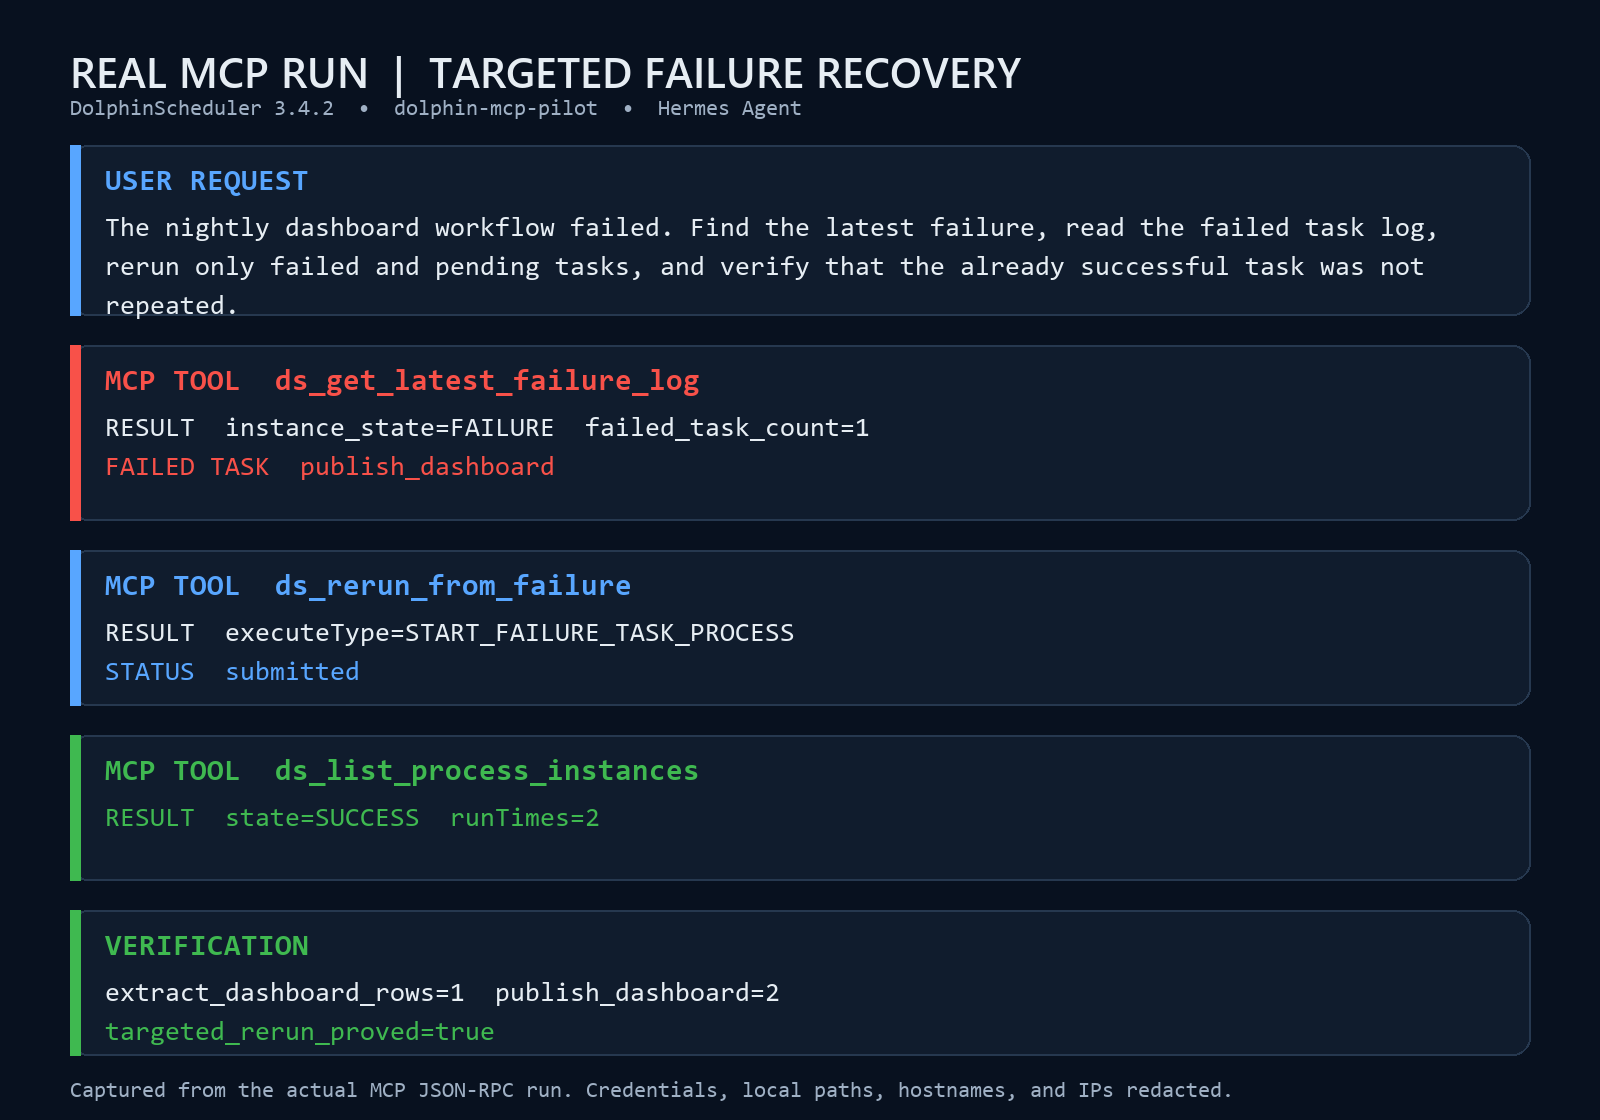
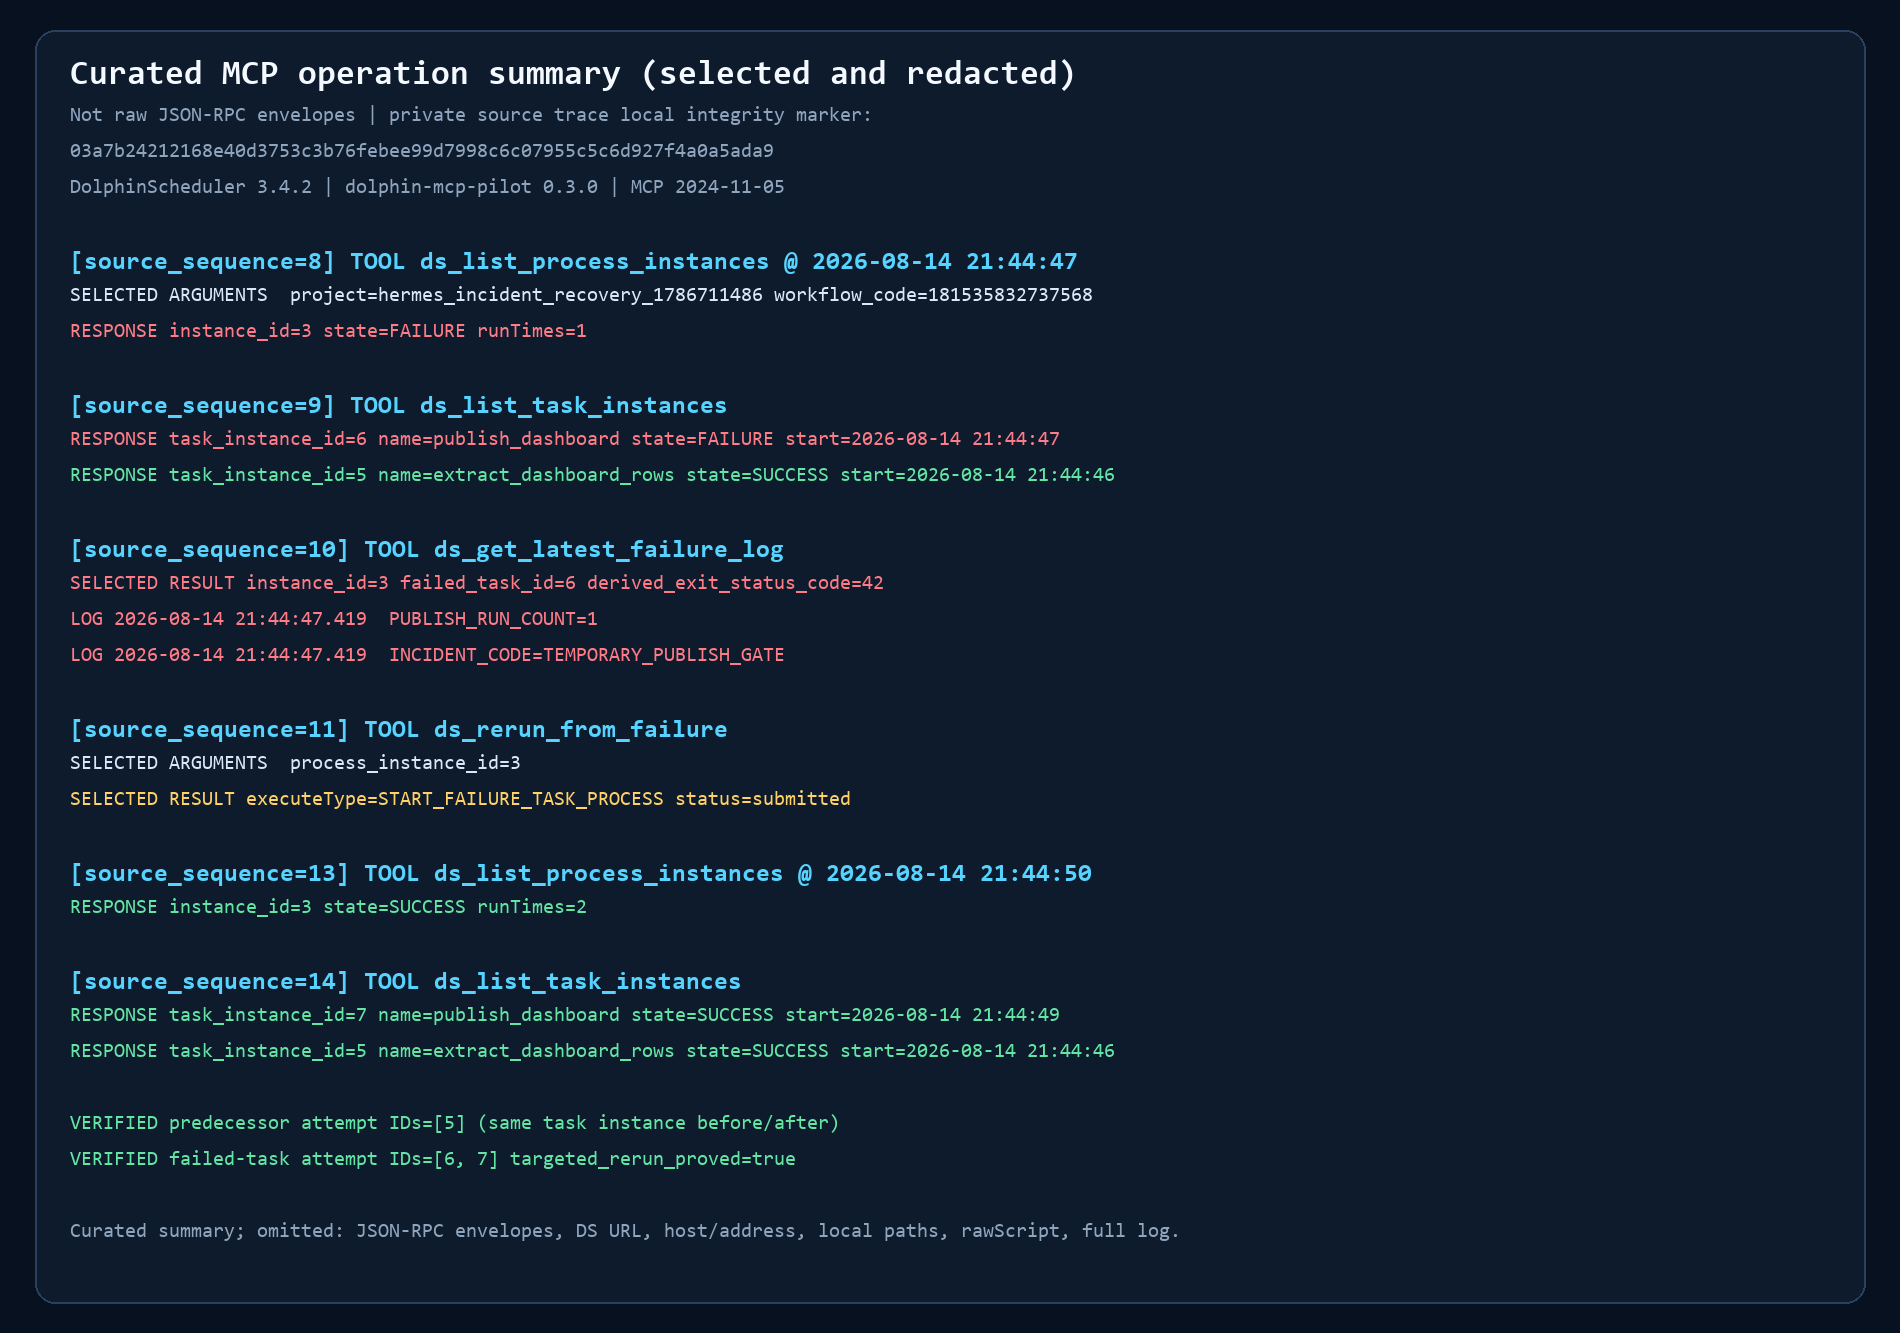
docs: publish targeted failure recovery case

Changed region(s): [[0.0312, 0.0312, 0.9062, 0.9375], [0.0312, 0.9688, 0.7812, 1.0]]

diff --git a/README.md b/README.md
@@ -3,7 +3,7 @@
 **真实环境：DolphinScheduler 3.4.2 + dolphin-mcp-pilot + Hermes Agent**  
 **运行日期：2026-08-14**
 
-> 本文记录一次真实 MCP JSON-RPC 运维实验：代理定位唯一失败任务，读取日志，从失败节点重跑，并用双重计数证明成功的上游任务没有重复执行。凭据、本地路径、主机名和内网 IP 均已脱敏。
+> 本文记录一次真实 MCP 工具运维实验：代理定位唯一失败任务，读取日志，从失败节点重跑，并用 DolphinScheduler 任务实例 ID 证明成功的上游任务没有重复执行。公开附件是经过筛选和脱敏的 MCP 操作摘要，不是原始 JSON-RPC 请求/响应封装；凭据、本地路径、主机名和内网 IP 均未公开。
 
 ![真实 MCP 运行记录](assets/targeted-recovery-transcript.png)
 
@@ -58,19 +58,21 @@ publish_dashboard=2
 targeted_rerun_proved=true
 ```
 
+经过筛选和脱敏的工具参数、结果、源顺序、DolphinScheduler 时间戳、实例 ID、任务 ID 与派生日志断言见 [`evidence/real-run-summary.json`](evidence/real-run-summary.json)。该文件记录的本地源记录 SHA-256 只是完整性指针；原始文件因包含机器本地路径和地址而不公开，因此外部读者不能独立验证该哈希。
+
 ## 为什么可以证明“只重跑失败节点”
 
-仅看工作流最终变绿并不充分，所以每个任务都写入独立执行计数：
+仅看工作流最终变绿并不充分，所以同时检查失败日志标记和任务实例 ID：
 
 | 任务 | 首次执行 | 恢复后累计 | 解释 |
 |---|---:|---:|---|
 | `extract_dashboard_rows` | 1 | **1** | 已成功任务未重复 |
 | `publish_dashboard` | 1（失败） | **2** | 失败任务单独再执行一次 |
 
-同时，DolphinScheduler 任务实例也显示：
+机器可读证据显示：
 
-- 原上游任务实例保持成功；
-- 发布任务产生新的成功实例；
+- 原上游任务在恢复前后保持相同 task-instance ID；
+- 发布任务拥有不同的失败与成功 task-instance ID；
 - 工作流实例 `runTimes=2`；
 - 最终状态为 `SUCCESS`。
 
@@ -87,7 +89,7 @@ processDefinitionCode     -> workflowDefinitionCode
 processInstanceId         -> workflowInstanceId
 ```
 
-兼容策略是保留旧请求为首选，只在旧地址返回 `404/405`、返回 `400` 且请求字段确实发生 3.4 转换，或响应明确提示缺少 3.4 新字段时，进行一次受限转换重试。普通旧版业务 `400` 不会被重试到新地址。
+兼容策略是保留旧请求为首选。只有目标路径确实改变且旧路径返回 `405` 或精确匹配 Jetty 标准路由缺失页面、并且页面中的 URI 与首次请求 URI 相同的 `404`，或者 HTTP/应用响应的完整错误消息精确报告缺少本次转换产生的 3.4 字段时，才进行一次受限转换重试。空正文、URI 不同、带额外内容或应用错误正文的 `404`、业务 `400`、仅包含缺字段片段或新字段名的业务错误以及 `ds_raw_*` 原样请求均不会触发兼容重试；raw 响应也不会被改写。`SUB_PROCESS` 的嵌套工作流代码只在第二次 3.4 请求中转换。
 
 ### 2. 显式 DAG 的虚拟根边
 
@@ -103,7 +105,7 @@ extract_dashboard_rows -> publish_dashboard
 0 -> extract_dashboard_rows
 ```
 
-结果是起始任务未进入顶点集合，服务端返回误导性的 `workflow node has cycle`。修复后，所有无入边任务会自动添加虚拟根边。
+结果是起始任务未进入顶点集合，服务端返回误导性的 `workflow node has cycle`。修复后，所有无入边任务会自动添加虚拟根边；基础和高级 DAG 创建工具会在任何 DolphinScheduler API 调用前共同拒绝空图、空/重复任务名、未知引用、重复边、自环、循环依赖以及与真实前驱冲突的显式根边。
 
 ## Windows 独立运行补充
 
@@ -121,16 +123,22 @@ Linux 或容器部署不需要这条 Windows 说明。
 新增测试覆盖：
 
 - 3.4 路径和字段转换；
+- schedule 查询和 DAG 响应容器别名；
 - 旧地址 HTTP 失败后的单次重试；
-- JSON 缺少 `workflowInstanceId` 时的受限重试；
+- 实际 DS 3.4 缺少 `workflowInstanceId` 错误后的受限重试；
+- 普通业务错误和 raw 请求不重试；
 - 3.4 响应字段向旧字段添加只读别名；
-- 显式依赖图自动补虚拟根边。
+- 显式依赖图自动补虚拟根边；
+- 多根、孤立任务、fork/join 与非法 DAG 输入；
+- 公开运行证据字段的机器验证。
 
 执行结果：
 
 ```text
-28 unit tests passed, 1 warning
-18 E2E tests passed
+74 non-E2E tests passed
+55 focused compatibility/DAG/evidence tests passed
+19 unittest tests passed
+18 live E2E tests passed against DolphinScheduler 3.4.2
 ```
 
 ## 结论
